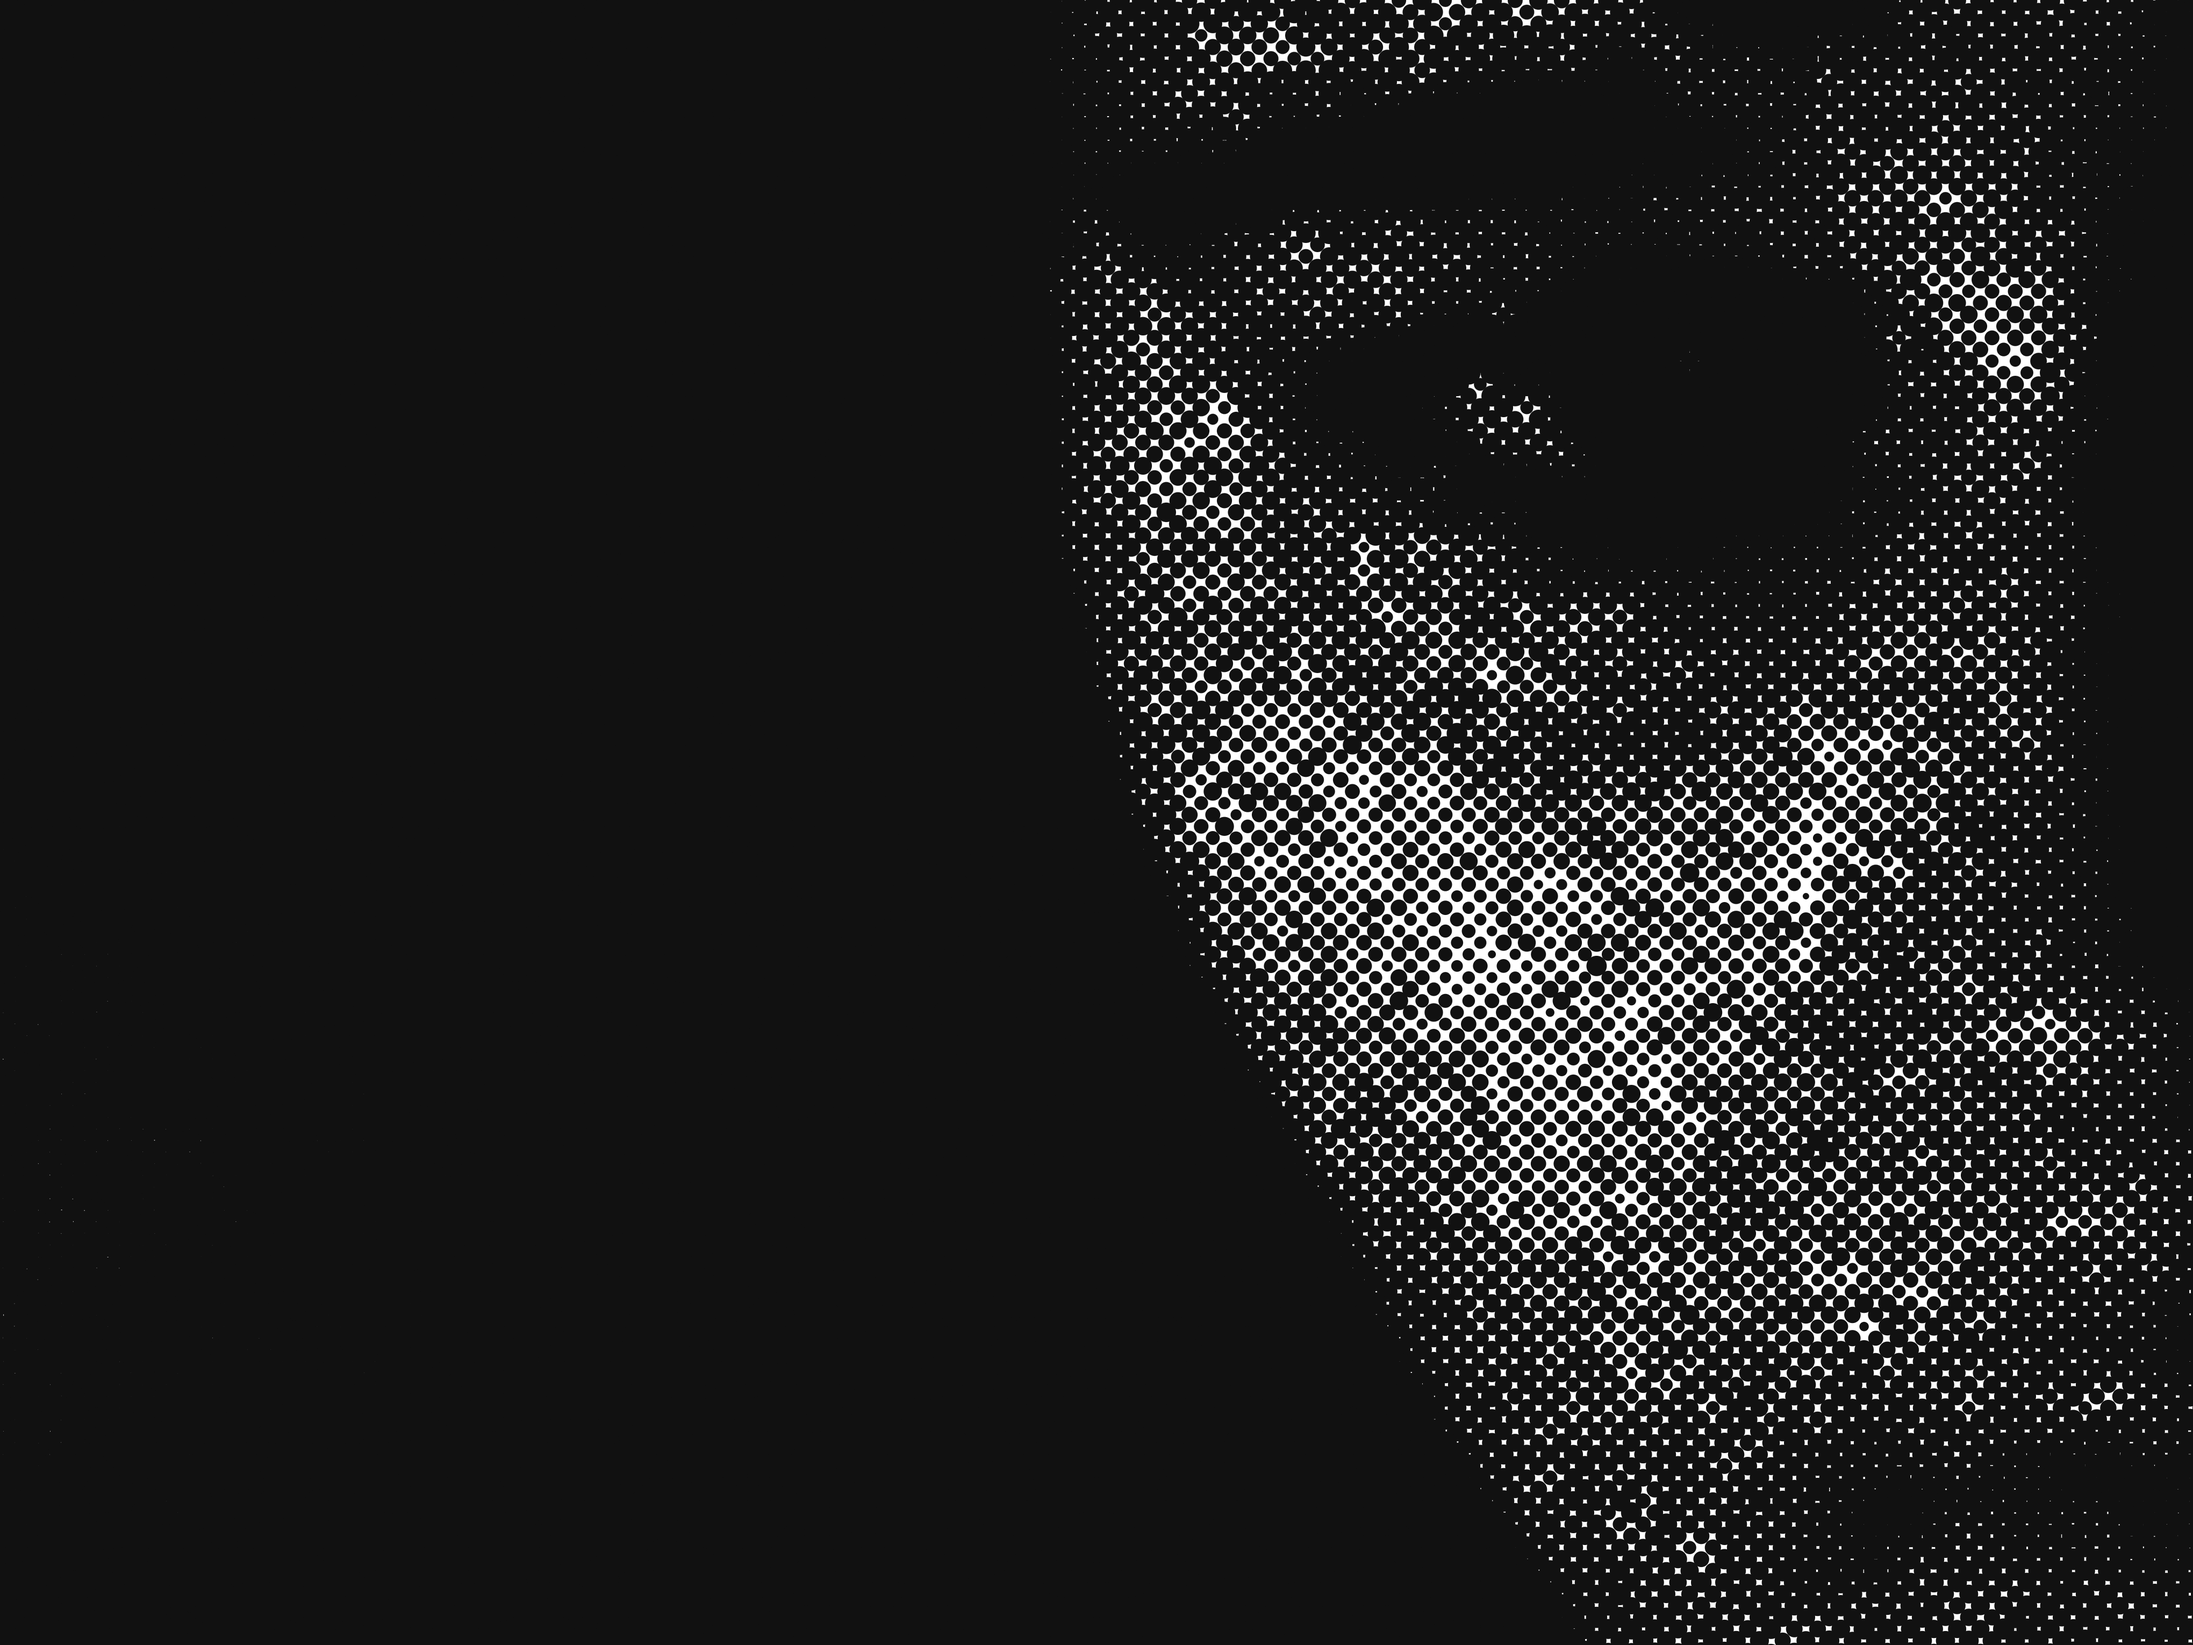
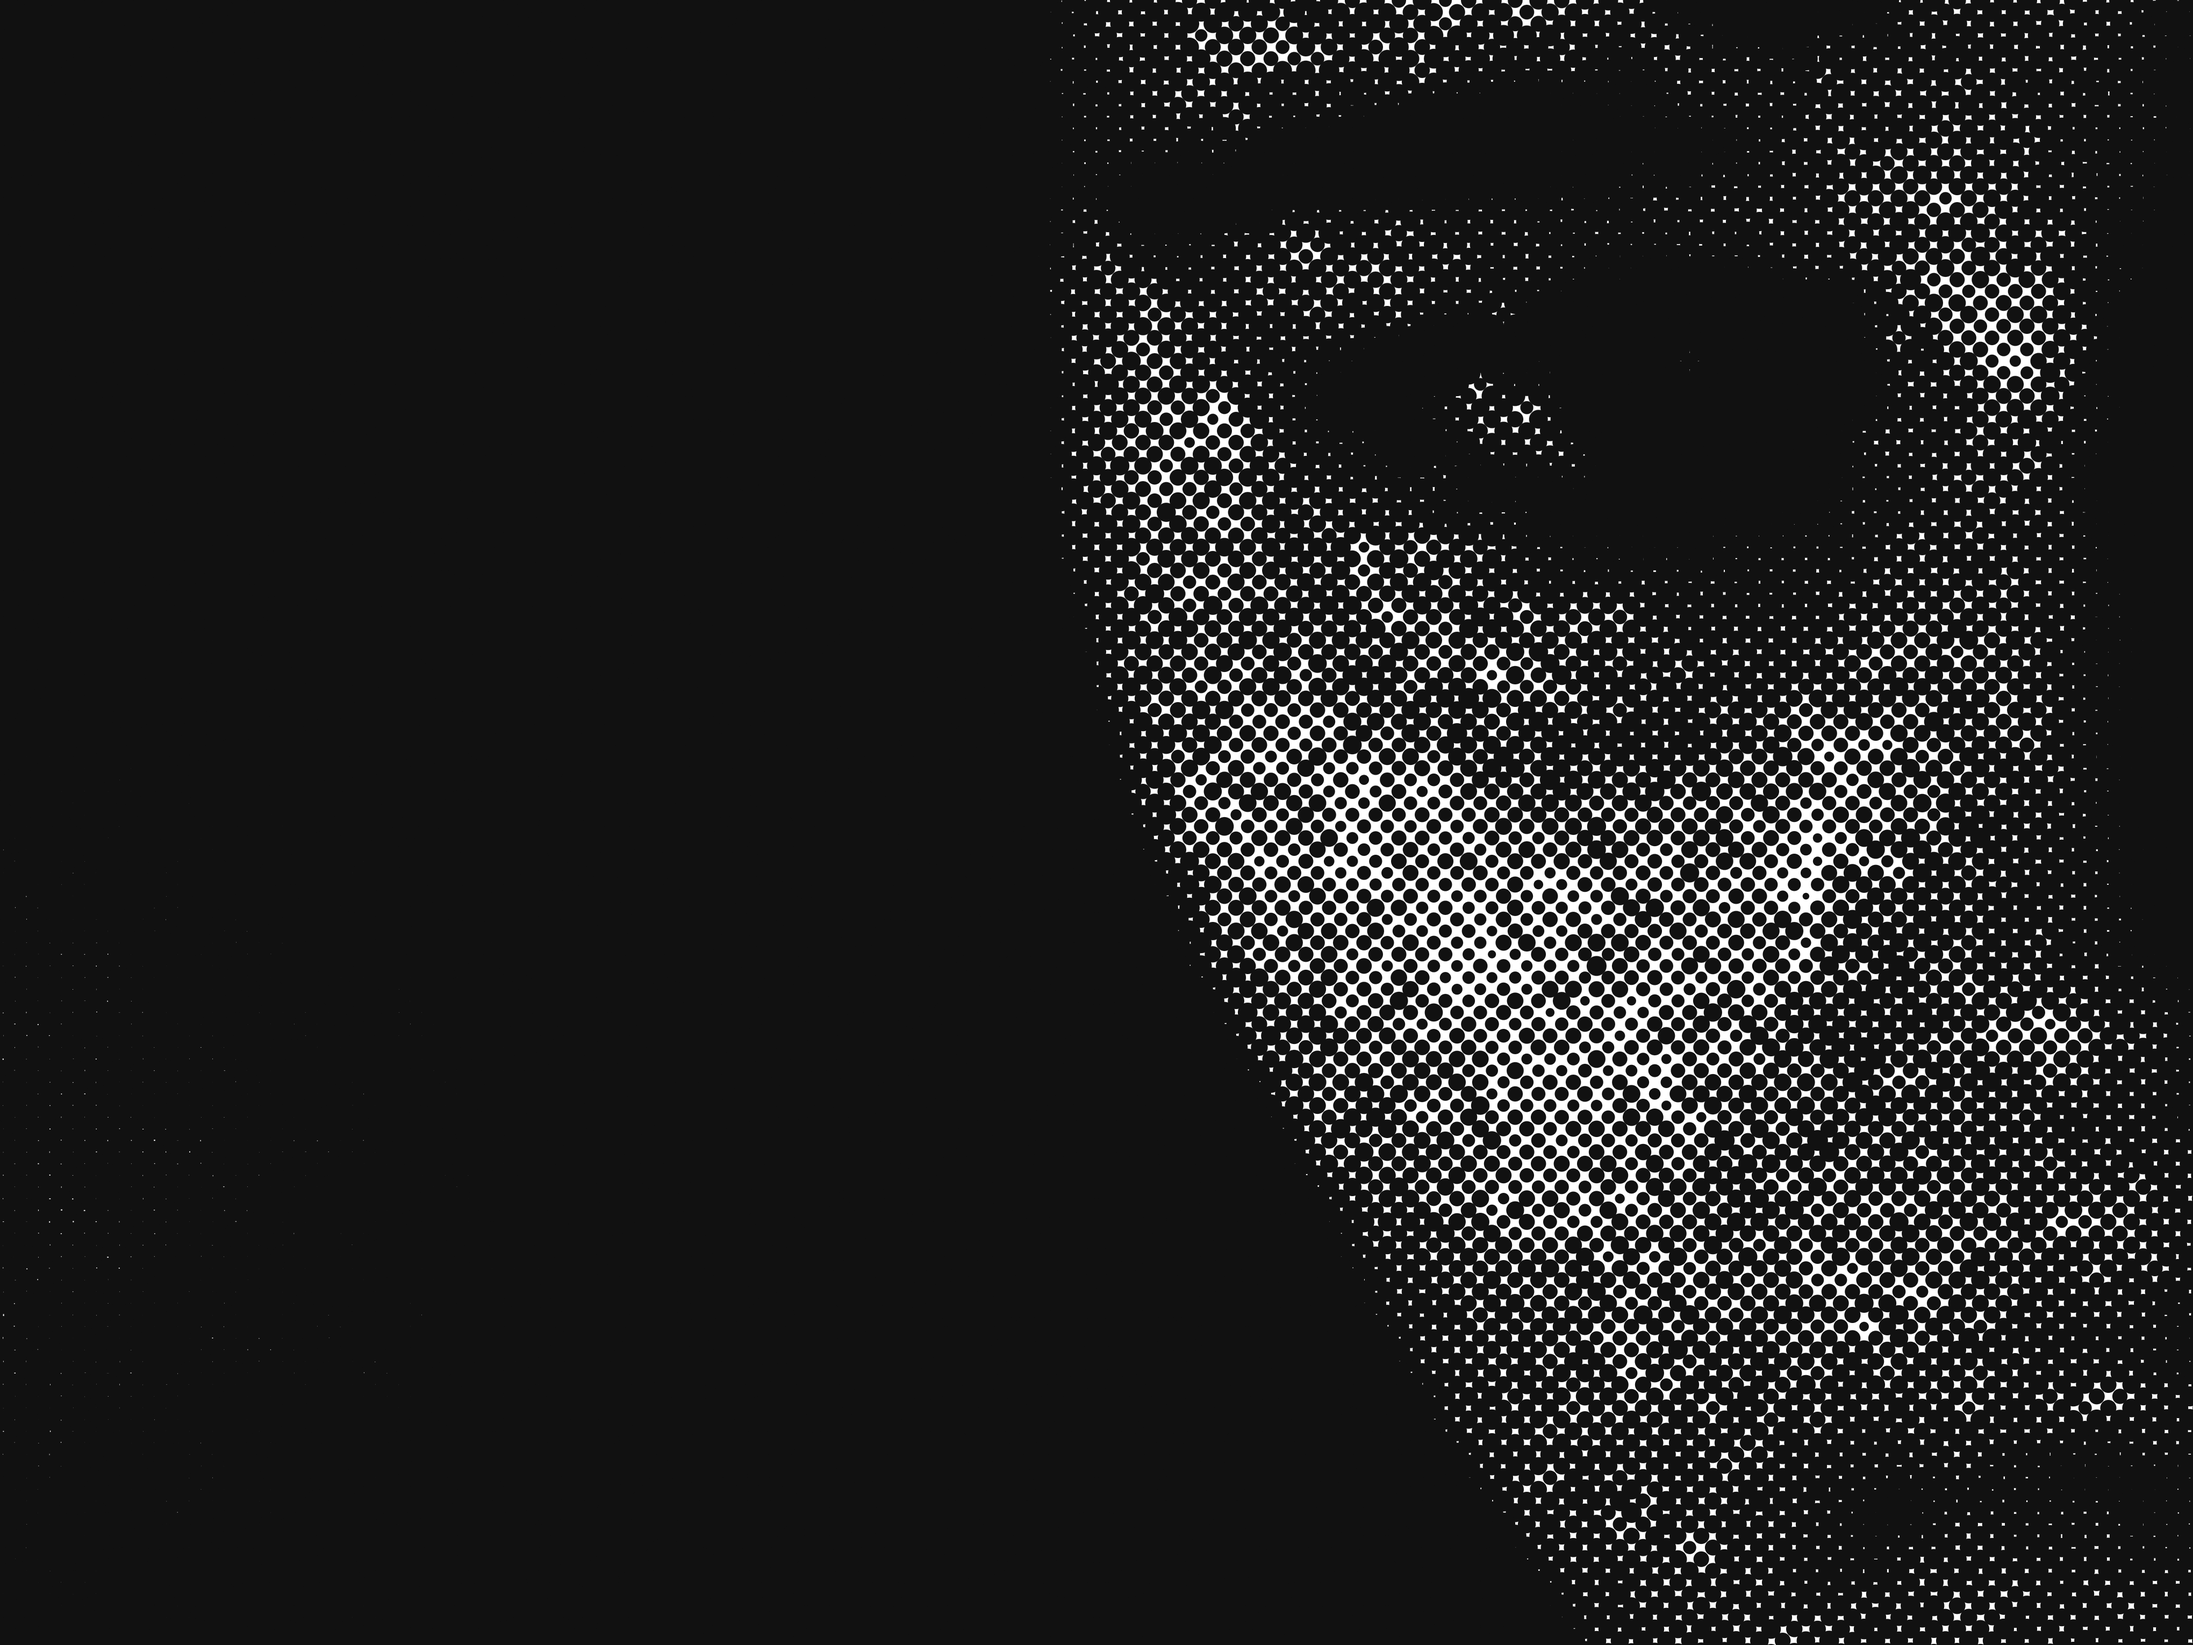
sd

diff --git a/index.html b/index.html
@@ -315,9 +315,9 @@
 
     const bg = document.querySelector(".bg");
     const full = new Image();
-    full.src = "GrainCamera_20260715-163308.jpg";
+    full.src = "halftone.png";
     full.onload = () => {
-      bg.style.backgroundImage = "url(GrainCamera_20260715-163308.jpg)";
+      bg.style.backgroundImage = "url(halftone.png)";
     };
     full.onerror = () => {
       bg.style.backgroundImage = "url(" + IMG_DATA + ")";
